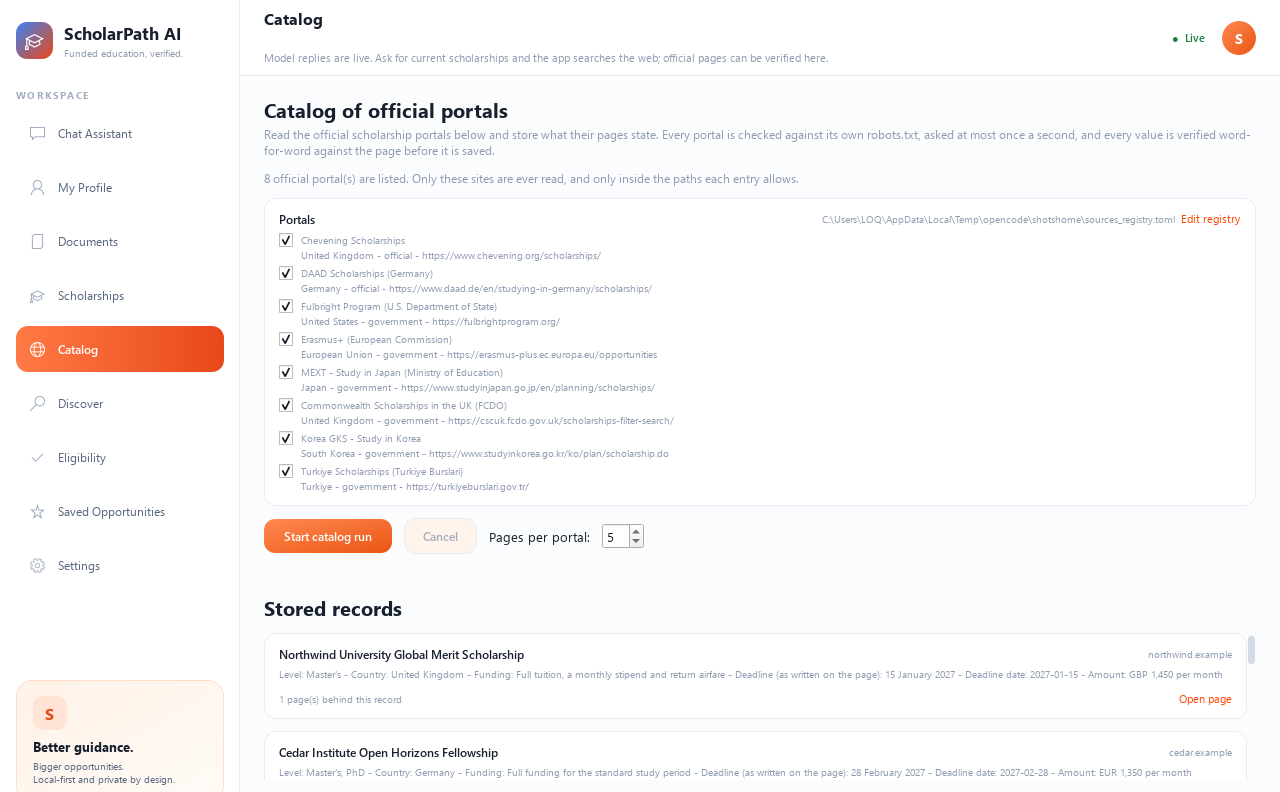
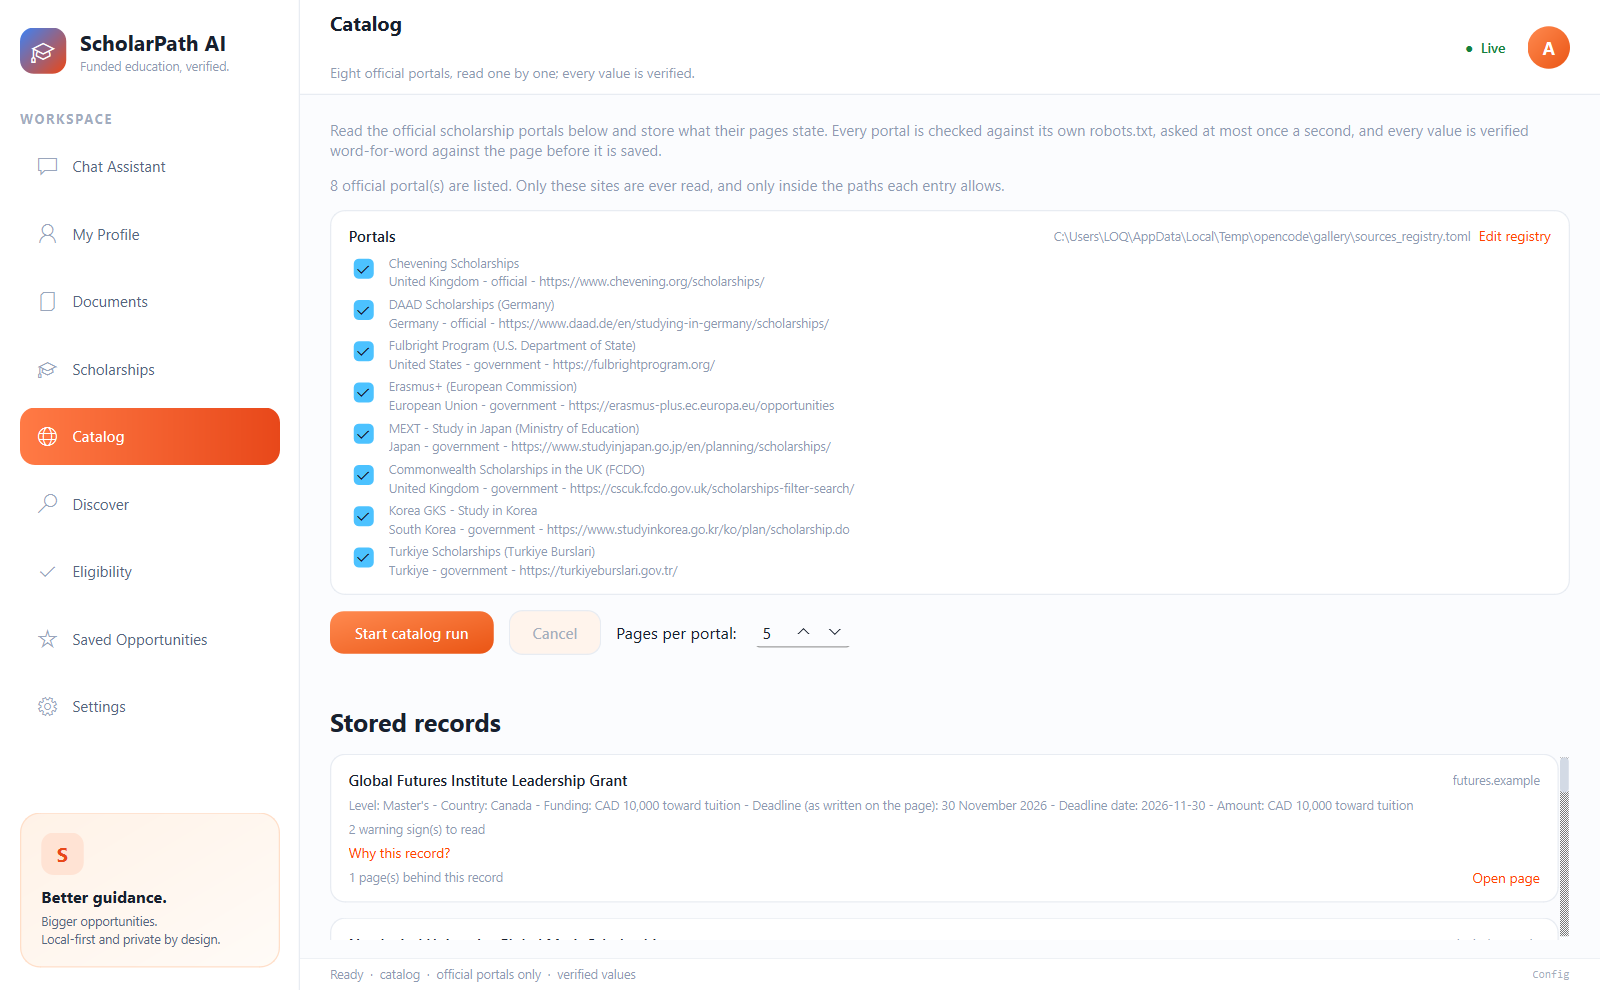
fix(ui): one name per page - the top bar names it, the body no longer repeats it (G172)

diff --git a/src/scholarpath/ui/main_window.py b/src/scholarpath/ui/main_window.py
@@ -820,8 +820,9 @@ class MainWindow(QMainWindow):
         self.subtitle.setWordWrap(True)
         titles.addWidget(title)
         titles.addWidget(self.subtitle)
-        row.addLayout(titles)
-        row.addStretch(1)
+        # The title block takes the spare width, so the one-line subtitle is
+        # not squeezed into a narrow column (it used to wrap after a few words).
+        row.addLayout(titles, 1)
 
         pill = QLabel("\u25cf  \u2026", bar)
         pill.setObjectName("StatusPill")
@@ -2149,6 +2150,16 @@ class MainWindow(QMainWindow):
                 text = (
                     f"{state}  \u00b7  eligibility  \u00b7  rule-based  \u00b7  no probabilities"
                 )
+            elif self._page_name == "catalog":
+                text = (
+                    f"{state}  \u00b7  catalog  \u00b7  official portals only  \u00b7  "
+                    f"verified values"
+                )
+            elif self._page_name == "discover":
+                text = (
+                    f"{state}  \u00b7  discover  \u00b7  the stored catalog  \u00b7  "
+                    f"nothing leaves this device"
+                )
             elif self._page_name == "saved":
                 text = f"{state}  \u00b7  saved  \u00b7  nothing is auto-saved"
             elif self._page_name == "settings":
@@ -2194,28 +2205,36 @@ class MainWindow(QMainWindow):
             self.subtitle.setText("Working on your message\u2026")
         elif self._page_name == "profile":
             self.subtitle.setText(
-                "Academic profile \u2014 local-only, private by design."
+                "Your academic details stay on this device."
             )
         elif self._page_name == "documents":
             self.subtitle.setText(
-                "Documents \u2014 parsed locally, every value confirmed by you."
+                "Parsed locally; every value is confirmed by you."
             )
         elif self._page_name == "research":
             self.subtitle.setText(
-                "Scholarship pages \u2014 you paste the official URL; every value is verified."
+                "You paste the official URL; every value is verified."
             )
         elif self._page_name == "eligibility":
             self.subtitle.setText(
-                "Eligibility \u2014 deterministic checks with honest unknowns."
+                "Deterministic checks with honest unknowns."
+            )
+        elif self._page_name == "catalog":
+            self.subtitle.setText(
+                "Eight official portals, read one by one; every value is "
+                "verified."
+            )
+        elif self._page_name == "discover":
+            self.subtitle.setText(
+                "Search the stored catalog; browsing never leaves this device."
             )
         elif self._page_name == "saved":
             self.subtitle.setText(
-                "Saved Opportunities \u2014 side-by-side reading and checklists; "
-                "nothing is auto-saved."
+                "Side-by-side reading and checklists; nothing is auto-saved."
             )
         elif self._page_name == "settings":
             self.subtitle.setText(
-                "Settings \u2014 privacy switches, model status and what stays local."
+                "Privacy switches, model status and what stays local."
             )
         elif live:
             web = "on" if self._privacy_flag("web_search") else "off (enable in Settings)"

diff --git a/tests/test_ui_page_titles.py b/tests/test_ui_page_titles.py
@@ -1,0 +1,81 @@
+"""One name per page: the shell header names it, the body does not repeat it (G172).
+
+The window's top bar carries the page name and a one-line description. Every
+page used to draw its own big heading as well, so the same word appeared twice
+("Settings" in the header and "Settings" again in the body). These tests hold
+the line: one name, one description, and a body that starts with what the page
+is for.
+"""
+
+from __future__ import annotations
+
+import pytest
+from PySide6.QtWidgets import QApplication, QLabel
+
+import scholarpath.ui.main_window as main_window
+from scholarpath.config import AppConfig, PrivacyConfig
+from scholarpath.gateway.stub import StubGateway
+from scholarpath.ui.chat_controller import ChatController
+from scholarpath.ui.main_window import MainWindow
+
+PAGES = {
+    "chat": "Chat Assistant",
+    "profile": "My Profile",
+    "documents": "Documents",
+    "research": "Scholarship Pages",
+    "eligibility": "Eligibility",
+    "catalog": "Catalog",
+    "discover": "Discover",
+    "saved": "Saved Opportunities",
+    "settings": "Settings",
+}
+
+
+@pytest.fixture(scope="module")
+def app() -> QApplication:
+    return QApplication.instance() or QApplication([])
+
+
+@pytest.fixture
+def window(app, tmp_path, monkeypatch) -> MainWindow:
+    monkeypatch.setattr(main_window, "database_path", lambda: tmp_path / "titles.db")
+    config = AppConfig(
+        privacy=PrivacyConfig(voice_stt=False, voice_tts=False, web_search=False)
+    )
+    built = MainWindow(ChatController(StubGateway(), "stub"), config)
+    yield built
+    built.close()
+
+
+def _labels(widget) -> list[str]:
+    return [label.text() for label in widget.findChildren(QLabel) if label.text()]
+
+
+def test_the_page_name_is_shown_once(window: MainWindow) -> None:
+    for name, title in PAGES.items():
+        window.select_page(name)
+        page = window._pages.currentWidget()
+
+        assert window._page_title.text() == title
+        assert title not in _labels(page), (
+            f"the {name} page repeats its own name in the body"
+        )
+
+
+def test_the_subtitle_describes_the_page_without_repeating_its_name(
+    window: MainWindow,
+) -> None:
+    for name, title in PAGES.items():
+        window.select_page(name)
+        subtitle = window.subtitle.text()
+
+        assert subtitle, f"the {name} page has no description"
+        assert not subtitle.startswith(title), (
+            f"the {name} subtitle repeats the page name"
+        )
+
+
+def test_the_catalog_still_has_its_stored_records_heading(window: MainWindow) -> None:
+    window.select_page("catalog")
+
+    assert "Stored records" in _labels(window._pages.currentWidget())

diff --git a/src/scholarpath/ui/eligibility_page.py b/src/scholarpath/ui/eligibility_page.py
@@ -173,8 +173,6 @@ class EligibilityPage(QWidget):
 
         header = QVBoxLayout()
         header.setSpacing(3)
-        title = QLabel("Eligibility checks", self)
-        title.setObjectName("PageTitle2")
         lead = QLabel(
             "Rule-based checks of your saved scholarship records against your "
             "local profile. No model and no probabilities: anything either side "
@@ -183,7 +181,6 @@ class EligibilityPage(QWidget):
         )
         lead.setObjectName("PageLead")
         lead.setWordWrap(True)
-        header.addWidget(title)
         header.addWidget(lead)
         outer.addLayout(header)
 

diff --git a/src/scholarpath/ui/catalog_page.py b/src/scholarpath/ui/catalog_page.py
@@ -226,8 +226,6 @@ class CatalogPage(QWidget):
 
         header = QVBoxLayout()
         header.setSpacing(3)
-        title = QLabel("Catalog of official portals", self)
-        title.setObjectName("PageTitle2")
         lead = QLabel(
             "Read the official scholarship portals below and store what their "
             "pages state. Every portal is checked against its own robots.txt, "
@@ -237,7 +235,6 @@ class CatalogPage(QWidget):
         )
         lead.setObjectName("PageLead")
         lead.setWordWrap(True)
-        header.addWidget(title)
         header.addWidget(lead)
         outer.addLayout(header)
 

diff --git a/src/scholarpath/ui/research_page.py b/src/scholarpath/ui/research_page.py
@@ -355,8 +355,6 @@ class ResearchPage(QWidget):
 
         header = QVBoxLayout()
         header.setSpacing(3)
-        title = QLabel("Scholarship pages", self)
-        title.setObjectName("PageTitle2")
         lead = QLabel(
             "Paste an official scholarship page and the app reads it, or paste "
             "a site's scholarships/funding page and use Find pages to list the "
@@ -367,7 +365,6 @@ class ResearchPage(QWidget):
         )
         lead.setObjectName("PageLead")
         lead.setWordWrap(True)
-        header.addWidget(title)
         header.addWidget(lead)
         outer.addLayout(header)
 

diff --git a/src/scholarpath/ui/profile_page.py b/src/scholarpath/ui/profile_page.py
@@ -71,8 +71,6 @@ class ProfilePage(QWidget):
 
         header = QVBoxLayout()
         header.setSpacing(3)
-        title = QLabel("Your academic profile", self)
-        title.setObjectName("PageTitle2")
         lead = QLabel(
             "Local-only. This is what the app (later: research and eligibility "
             "checks) will work from. You fill it yourself or confirm extracted "
@@ -81,7 +79,6 @@ class ProfilePage(QWidget):
         )
         lead.setObjectName("PageLead")
         lead.setWordWrap(True)
-        header.addWidget(title)
         header.addWidget(lead)
         outer.addLayout(header)
 

diff --git a/src/scholarpath/ui/documents_page.py b/src/scholarpath/ui/documents_page.py
@@ -240,8 +240,6 @@ class DocumentsPage(QWidget):
 
         header = QVBoxLayout()
         header.setSpacing(3)
-        title = QLabel("Your documents", self)
-        title.setObjectName("PageTitle2")
         lead = QLabel(
             "Files stay on this machine. Text is read locally (or with Windows "
             "OCR) and sent to your model service only to propose values; you "
@@ -250,7 +248,6 @@ class DocumentsPage(QWidget):
         )
         lead.setObjectName("PageLead")
         lead.setWordWrap(True)
-        header.addWidget(title)
         header.addWidget(lead)
         outer.addLayout(header)
 

diff --git a/src/scholarpath/ui/saved_page.py b/src/scholarpath/ui/saved_page.py
@@ -158,8 +158,6 @@ class SavedPage(QWidget):
 
         header = QVBoxLayout()
         header.setSpacing(3)
-        title = QLabel("Saved Opportunities", self)
-        title.setObjectName("PageTitle2")
         lead = QLabel(
             "Records you explicitly saved \u2014 nothing is auto-saved. Compare "
             "them side by side, and keep a per-record application checklist "
@@ -168,7 +166,6 @@ class SavedPage(QWidget):
         )
         lead.setObjectName("PageLead")
         lead.setWordWrap(True)
-        header.addWidget(title)
         header.addWidget(lead)
         outer.addLayout(header)
 

diff --git a/src/scholarpath/ui/discover_page.py b/src/scholarpath/ui/discover_page.py
@@ -210,8 +210,6 @@ class DiscoverPage(QWidget):
 
         header = QVBoxLayout()
         header.setSpacing(3)
-        title = QLabel("Discover", self)
-        title.setObjectName("PageTitle2")
         lead = QLabel(
             "Search the records your catalog already holds and filter them by "
             "what the pages state. Browsing changes nothing and the search never "
@@ -221,7 +219,6 @@ class DiscoverPage(QWidget):
         )
         lead.setObjectName("PageLead")
         lead.setWordWrap(True)
-        header.addWidget(title)
         header.addWidget(lead)
         outer.addLayout(header)
 

diff --git a/src/scholarpath/ui/settings_page.py b/src/scholarpath/ui/settings_page.py
@@ -307,8 +307,6 @@ class SettingsPage(QWidget):
 
         header = QVBoxLayout()
         header.setSpacing(3)
-        title = QLabel("Settings", self)
-        title.setObjectName("PageTitle2")
         lead = QLabel(
             "Privacy switches save automatically. Advanced settings live in "
             "config.toml, where unknown keys and bad values are rejected, not "
@@ -317,7 +315,6 @@ class SettingsPage(QWidget):
         )
         lead.setObjectName("PageLead")
         lead.setWordWrap(True)
-        header.addWidget(title)
         header.addWidget(lead)
         outer.addLayout(header)
 

diff --git a/achievements.md b/achievements.md
@@ -34,9 +34,10 @@ is finished, not when it is started. Each entry names the goal it satisfies
   (A28). The README now carries five Mermaid diagrams — the student journey,
   the system map, the record pipeline, the re-check decision and the device
   trust boundary (A29). The README now also carries a banner, seven
-  badges and eight real screenshots of the shipped pages (A30).
+  badges and eight real screenshots of the shipped pages (A30, re-captured in
+  A34).
 - Licence: proprietary, source-available, view-only (`LICENSE`).
-- Tests: **579 passing** (`pytest`, ~51 s).
+- Tests: **582 passing** (`pytest`, ~52 s).
 - M7: packaged and bundle-audited (`dist\ScholarPathAI`,
   `packaging\build.ps1`), but **not clean-Windows verified**; there is no
   installer and no separate security/performance review. G138, G207 and G113
@@ -49,6 +50,23 @@ is finished, not when it is started. Each entry names the goal it satisfies
 ---
 
 ## Log (newest first)
+
+### 2026-10-22 - A34 - One name per page (G172)
+
+**Satisfies:** G172.
+
+| Area | What changed |
+| ---- | ------------ |
+| The duplicate heading | The eight page bodies (Profile, Documents, Scholarship pages, Eligibility, Catalog, Discover, Saved, Settings) no longer draw their own big `PageTitle2` heading. The window's top bar has always named the page, so it is now the only place the name appears. Each page keeps its lead sentence, which says what the page is for. The Catalog page keeps its "Stored records" section heading - that one is a section, not a second page name. |
+| The description line | The top bar's one-line description under the name no longer repeats the name ("Settings - privacy switches..." became "Privacy switches, model status and what stays local."). Catalog and Discover, which fell through to the chat line, now describe themselves. The title block takes the spare width, so the description is one line instead of wrapping after three words. |
+| The status strip | Catalog and Discover get their own status lines instead of "chat: live - 0 messages - no web search yet". |
+| The gallery | Every README screenshot was re-captured from the real window (stub gateway, sample profile "Aarav Sharma", six sample records, one record with a stored page change), so the gallery shows the shipped pages. |
+
+**Evidence:** **582 tests pass** (579 before plus 3 in
+`tests/test_ui_page_titles.py`), exit 0. The new tests walk every page: the
+top-bar title is the page name, the page body holds no label with that same
+text, the description does not start with the name, and the Catalog still has
+its "Stored records" heading.
 
 ### 2026-10-22 - A33 - Privacy switches you can flip in the app (G171)
 

diff --git a/goals.md b/goals.md
@@ -92,6 +92,7 @@ Status key: `[ ]` not started · `[~]` in progress · `[x]` done (has an `An` en
 | G169 | 43 | Live catalog run with the real model on 3 portals, at most 8 pages each, with a per-field verbatim audit; every bug found is fixed with a fake-server/fake-gateway regression test | `[ ]` |
 | G170 | 44 | A live-proofs checklist in `docs/live_checks.md` for forced-429 failover, neural-voice audibility and clean-Windows packaging; the goals stay open until the owner runs it and reports back | `[ ]` |
 | G171 | 45 | Privacy switches are real toggles in Settings, on by default, and saved to `config.toml` from the app; no student edits the file to turn voice or web search on | `[x]` |
+| G172 | 46 | One name per page: the top bar names the page, the body no longer repeats it, and the one-line description under the name does not repeat it either | `[x]` |
 
 ---
 
@@ -1476,3 +1477,23 @@ defaults are on (`PrivacyConfig`), `config.example.toml` matches, and no
 user-facing text tells a student to edit a config key any more. An existing
 `config.toml` keeps its own values until a toggle is flipped. 579 tests pass,
 including 6 new ones.
+
+## 46. One name per page (G172)
+
+The window's top bar has always named the page ("Settings", "Discover", ...)
+and every page also drew its own big heading with the same word, so the name
+appeared twice on every page. The shell header is the single name:
+
+- The eight page bodies (Profile, Documents, Scholarship pages, Eligibility,
+  Catalog, Discover, Saved, Settings) lose their duplicated `PageTitle2`
+  heading and keep their lead sentence, which says what the page is for.
+- The top bar keeps the page name and gains a one-line description of that
+  page. The description no longer repeats the name, and the Catalog and
+  Discover pages get their own line instead of the chat one they used to
+  show.
+- The top-bar title block takes the spare width, so the description is one
+  line instead of wrapping after a few words.
+- The status strip gets matching lines for Catalog and Discover instead of
+  the chat line.
+- The README gallery is re-captured from the real window, so every screenshot
+  shows the shipped page.
